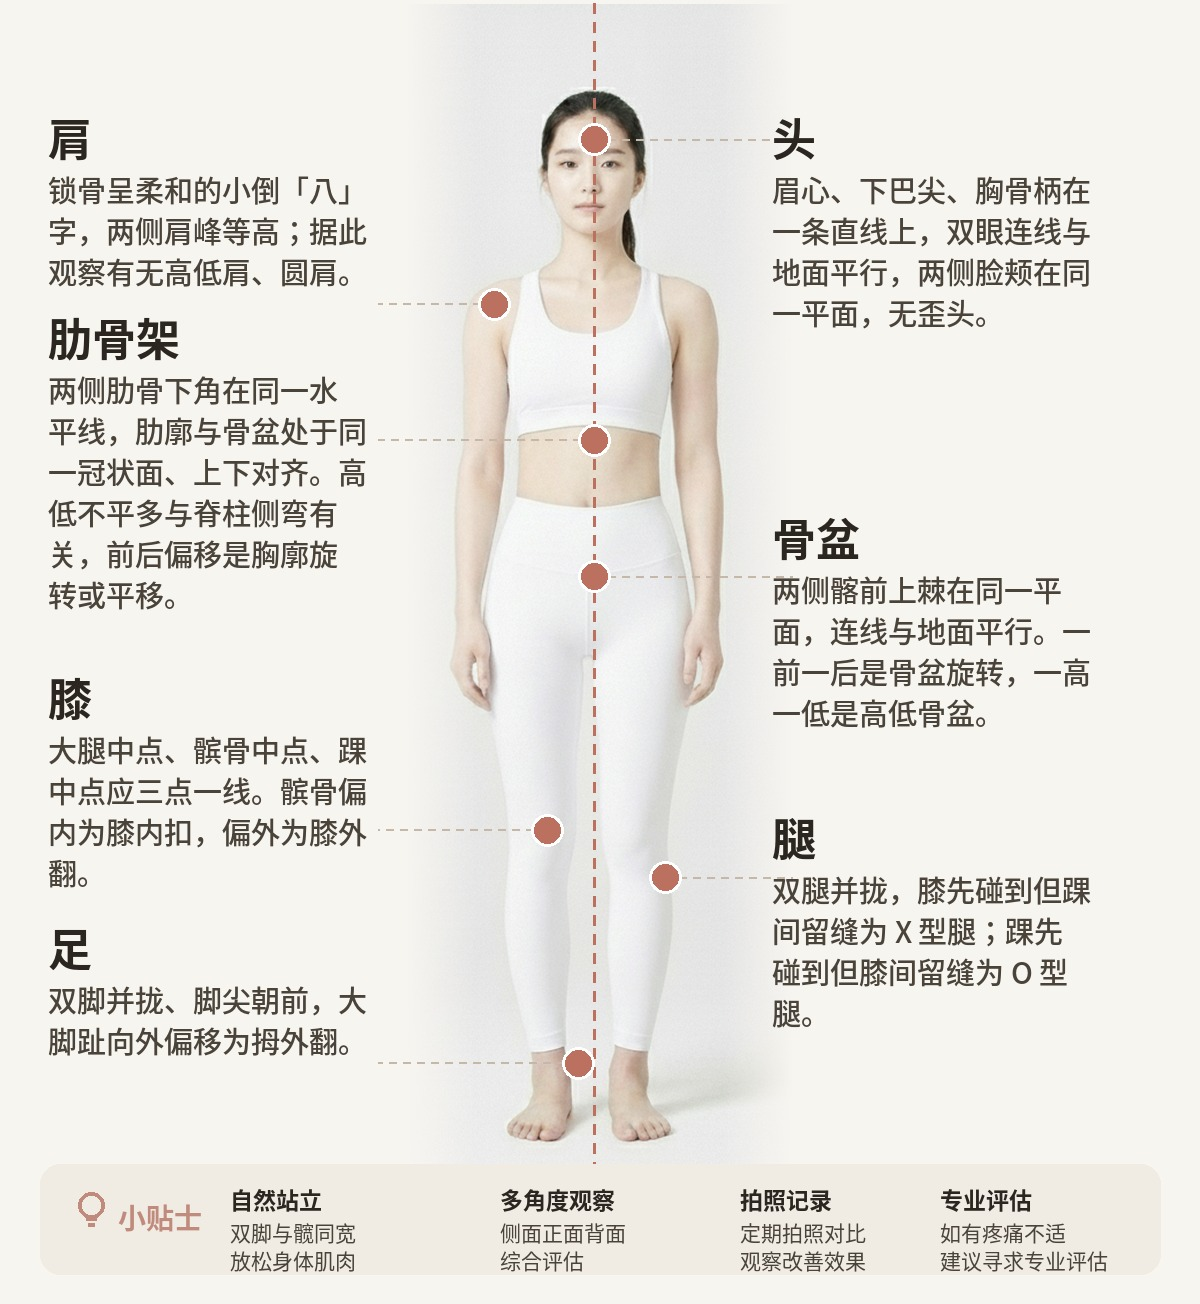
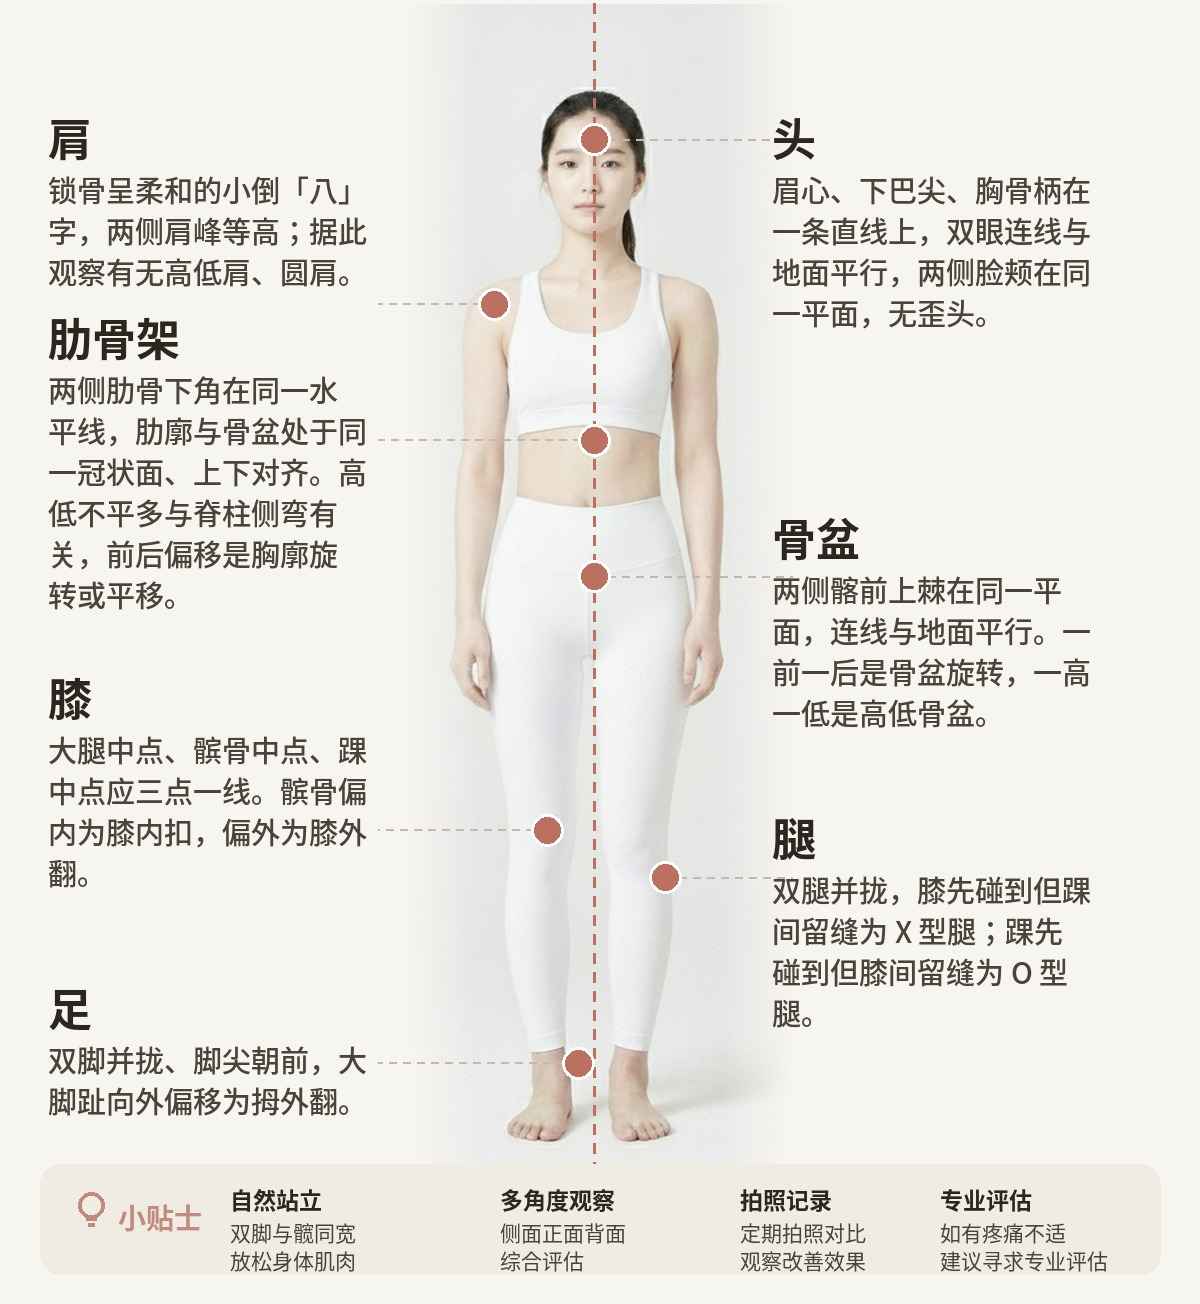
正面：足卡片下移
Claude-Session: https://claude.ai/code/session_01Nkdaws1GkKoqKvowGcGT1f

Changed region(s): [[0.0308, 0.7055, 0.3083, 0.8589]]

diff --git a/backend/tools/make_pose_posters.py b/backend/tools/make_pose_posters.py
@@ -168,7 +168,7 @@ if __name__ == "__main__":
     # ===== 正面 =====
     head_y.clear()
     head_y.update({
-        ("L","shoulder"):300, ("L","ribs"):500, ("L","knee"):860, ("L","foot"):1110,
+        ("L","shoulder"):300, ("L","ribs"):500, ("L","knee"):860, ("L","foot"):1170,
         ("R","head"):300, ("R","pelvis"):700, ("R","leg"):1000,
     })
     build(
